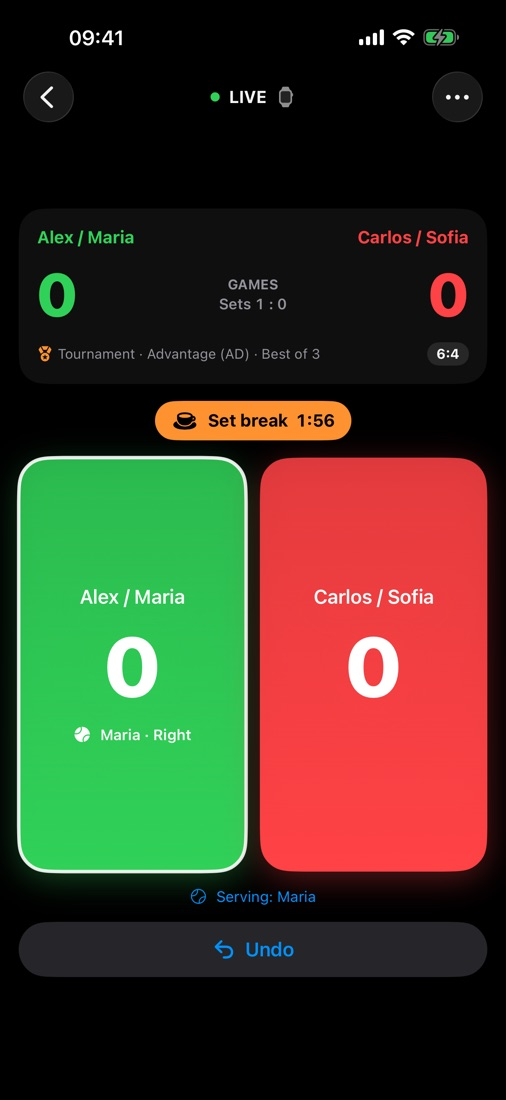
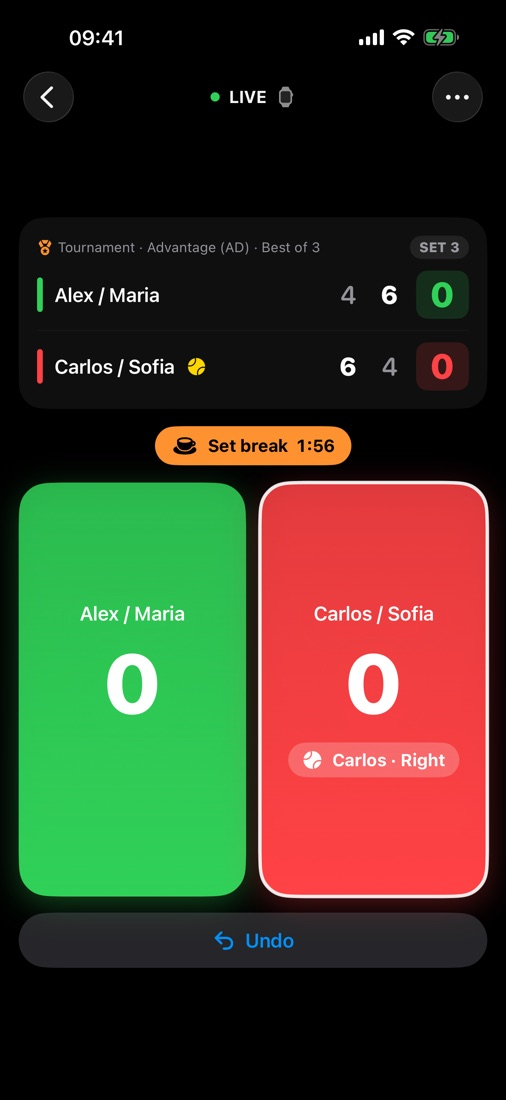
Website: new app screenshots in all languages, updated help answers
From mlodylbn/padelscore-app@138f64f

diff --git a/support/index.html b/support/index.html
@@ -121,8 +121,8 @@
     <details>
       <summary><span lang="pl">Jak działa wskazywanie serwującego?</span><span lang="en">How does the server indicator work?</span><span lang="es">¿Cómo funciona el indicador de saque?</span></summary>
       <div class="answer">
-        <p lang="pl">Na początku meczu wybierz, kto serwuje pierwszy. Dalej aplikacja sama liczy rotację, także w&nbsp;tie-breaku, i&nbsp;pokazuje stronę serwisu. Jeśli wpiszesz imiona graczy w&nbsp;kolejności serwowania (menu › Gracze), zobaczysz też, który gracz serwuje. Serwującego możesz poprawić w&nbsp;każdej chwili.</p>
-        <p lang="en">At the start of the match, choose who serves first. From then on the app counts the rotation, including tie-breaks, and shows the serving side. If you enter player names in serving order (menu › Players), you also see which player serves. You can correct the server at any time.</p>
+        <p lang="pl">Przy starcie meczu, na ekranie „Nowy mecz”, wybierz, kto serwuje pierwszy, albo zakręć rakietą. Dalej aplikacja sama liczy rotację, także w&nbsp;tie-breaku, i&nbsp;pokazuje stronę serwisu. Gdy gracze mają imiona, widać też, który z&nbsp;nich serwuje, a&nbsp;przed pierwszym gemem serwisowym każdej pary aplikacja pyta, kto z&nbsp;niej serwuje. Serwującego możesz poprawić w&nbsp;każdej chwili w&nbsp;menu meczu („…” › Zmień serwis).</p>
+        <p lang="en">When you start a match on the “New match” screen, choose who serves first, or spin the racket. From then on the app counts the rotation, including tie-breaks, and shows the serving side. When players have names, you also see which player serves, and before each pair’s first service game the app asks which of them serves. You can correct the server at any time in the match menu (“…” › Change server).</p>
         <p lang="es">Al empezar el partido, elige quién saca primero. A partir de ahí la app cuenta la rotación, también en los tie-breaks, y muestra el lado de saque. Con los nombres de los jugadores ves además qué jugador saca; antes del primer juego de saque de cada pareja, la app pregunta quién saca. Puedes corregir el saque en cualquier momento en el menú del partido.</p>
       </div>
     </details>
@@ -166,8 +166,8 @@
     <details>
       <summary><span lang="pl">Jak dodać znajomego do meczu?</span><span lang="en">How do I add a friend to a match?</span><span lang="es">¿Cómo añado a un amigo a un partido?</span></summary>
       <div class="answer">
-        <p lang="pl">Znajomy otwiera Tapazo na swoim iPhonie. U&nbsp;Ciebie, w&nbsp;Graczach, pojawi się w&nbsp;sekcji „W&nbsp;pobliżu”. Stuknij „+” i&nbsp;wybierz drużynę. Znajomy dostanie zaproszenie, a&nbsp;po dołączeniu zobaczy wynik na swoim iPhonie i&nbsp;Apple&nbsp;Watch. Punkty liczysz tylko Ty, a&nbsp;po meczu każdy ma go w&nbsp;swojej historii. Przy pierwszym użyciu iOS poprosi o&nbsp;dostęp do sieci lokalnej – trzeba się zgodzić.</p>
-        <p lang="en">Your friend opens Tapazo on their iPhone. On yours, they appear in Players under “Nearby”. Tap “+” and choose a team. Your friend gets an invitation and, after joining, sees the score on their iPhone and Apple&nbsp;Watch. Only you score points, and after the match everyone has it in their history. The first time, iOS asks for local network access – please allow it.</p>
+        <p lang="pl">Znajomy otwiera Tapazo na swoim iPhonie. U&nbsp;Ciebie pojawi się w&nbsp;sekcji „W&nbsp;pobliżu” na ekranie „Nowy mecz” (i&nbsp;w&nbsp;Graczach). Stuknij go i&nbsp;wybierz drużynę. Znajomy dostanie zaproszenie, a&nbsp;po dołączeniu zobaczy wynik na swoim iPhonie i&nbsp;Apple&nbsp;Watch. Punkty liczysz tylko Ty, a&nbsp;po meczu każdy ma go w&nbsp;swojej historii. Przy pierwszym użyciu iOS poprosi o&nbsp;dostęp do sieci lokalnej – trzeba się zgodzić.</p>
+        <p lang="en">Your friend opens Tapazo on their iPhone. On yours, they appear under “Nearby” on the “New match” screen (and in Players). Tap them and choose a team. Your friend gets an invitation and, after joining, sees the score on their iPhone and Apple&nbsp;Watch. Only you score points, and after the match everyone has it in their history. The first time, iOS asks for local network access – please allow it.</p>
         <p lang="es">Tu amigo abre Tapazo en su iPhone. En el tuyo aparece en la sección «Cerca» de la pantalla «Nuevo partido» (y en Jugadores). Tócalo y elige un equipo. Tu amigo recibe una invitación y, tras unirse, ve el marcador en su iPhone y su Apple&nbsp;Watch. Solo tú marcas los puntos y, al terminar, todos tienen el partido en su historial. La primera vez, iOS pide acceso a la red local: permítelo.</p>
       </div>
     </details>

diff --git a/index.html b/index.html
@@ -283,12 +283,12 @@
       <figure class="shot reveal">
         <div class="frame"><img src="assets/iphone-change-ends.jpg" loading="lazy" width="506" height="1100" alt="Odliczanie czasu na zmianę stron" data-en="assets/en/iphone-change-ends.jpg" data-alt-en="Change of ends countdown" data-es="assets/es/iphone-change-ends.jpg" data-alt-es="Cuenta atrás del cambio de lado"></div>
         <figcaption><span lang="pl">Zmiana stron</span><span lang="en">Change ends</span><span lang="es">Cambio de lado</span>
-          <span><span lang="pl">Odliczanie przerwy i&nbsp;zmiany stron</span><span lang="en">A countdown for breaks and ends</span><span lang="es">Cuenta atrás para descansos y cambios</span></span></figcaption>
+          <span><span lang="pl">Sety jak w&nbsp;telewizji i&nbsp;odliczanie przerwy</span><span lang="en">Sets like on TV and a break countdown</span><span lang="es">Sets como en la tele y cuenta atrás</span></span></figcaption>
       </figure>
       <figure class="shot reveal">
-        <div class="frame"><img src="assets/iphone-rules.jpg" loading="lazy" width="506" height="1100" alt="Zasady meczu: mecz towarzyski, turniejowy lub Americano" data-en="assets/en/iphone-rules.jpg" data-alt-en="Match rules: friendly, tournament or Americano" data-es="assets/es/iphone-rules.jpg" data-alt-es="Reglas del partido: amistoso, torneo o Americano"></div>
-        <figcaption><span lang="pl">Zasady</span><span lang="en">Rules</span><span lang="es">Reglas</span>
-          <span><span lang="pl">Towarzyski, turniejowy lub Americano</span><span lang="en">Friendly, tournament or Americano</span><span lang="es">Amistoso, torneo o Americano</span></span></figcaption>
+        <div class="frame"><img src="assets/iphone-new-match.jpg" loading="lazy" width="506" height="1100" alt="Nowy mecz: rodzaj meczu, drużyny, gracze w pobliżu i kto serwuje" data-en="assets/en/iphone-new-match.jpg" data-alt-en="New match: match type, teams, players nearby and who serves" data-es="assets/es/iphone-new-match.jpg" data-alt-es="Nuevo partido: tipo de partido, equipos, jugadores cercanos y quién saca"></div>
+        <figcaption><span lang="pl">Nowy mecz</span><span lang="en">New match</span><span lang="es">Nuevo partido</span>
+          <span><span lang="pl">Drużyny, gracze w&nbsp;pobliżu i&nbsp;serwis</span><span lang="en">Teams, players nearby and serve</span><span lang="es">Equipos, jugadores cercanos y saque</span></span></figcaption>
       </figure>
       <figure class="shot reveal">
         <div class="frame"><img src="assets/iphone-history.jpg" loading="lazy" width="506" height="1100" alt="Historia meczów z podsumowaniem i kartami meczów" data-en="assets/en/iphone-history.jpg" data-alt-en="Match history with a summary and match cards" data-es="assets/es/iphone-history.jpg" data-alt-es="Historial con resumen y tarjetas de partidos"></div>
